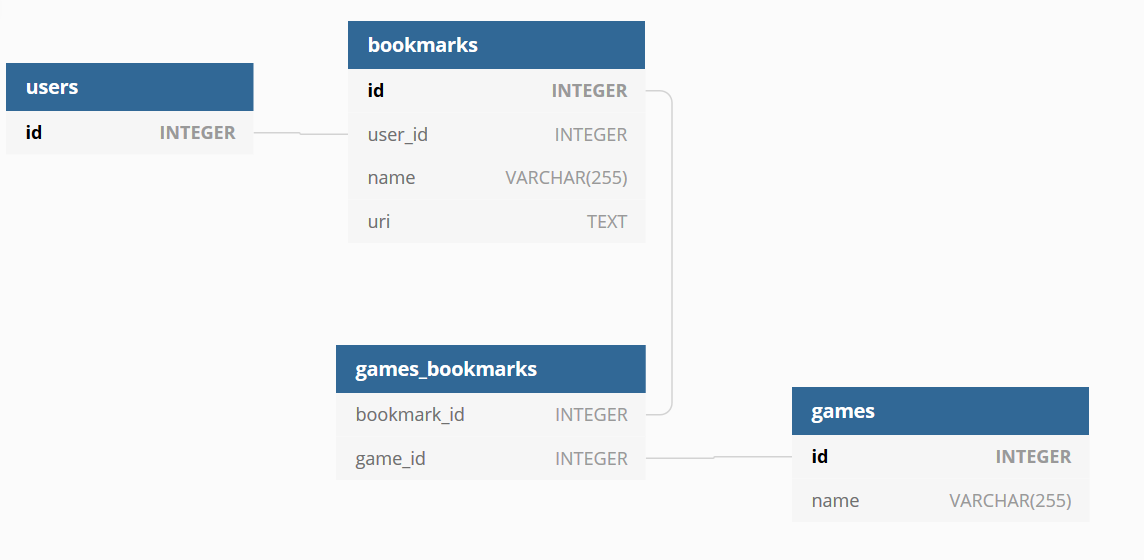
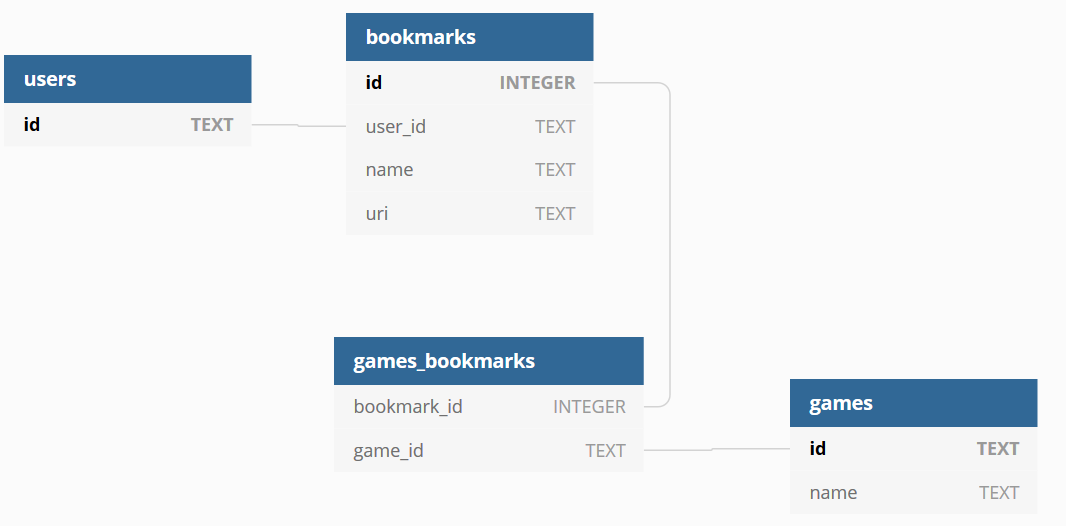
changed so column types in db schema

diff --git a/db/createDb.js b/db/createDb.js
@@ -11,25 +11,25 @@ const db = new Database(config.db.database, { verbose: console.log });
 
 
 db.exec(`CREATE TABLE IF NOT EXISTS "users" (
-        "id" INTEGER PRIMARY KEY
+        "id" TEXT PRIMARY KEY
         );`);
 
 db.exec(`CREATE TABLE IF NOT EXISTS "games" (
-        "id" INTEGER PRIMARY KEY,
-        "name" VARCHAR(255) NOT NULL
+        "id" TEXT PRIMARY KEY,
+        "name" TEXT NOT NULL
         );`);
 
 db.exec(`CREATE TABLE IF NOT EXISTS "bookmarks" (
         "id" INTEGER PRIMARY KEY,
-        "user_id" INTEGER NOT NULL,
-        "name" VARCHAR(255),
+        "user_id" TEXT NOT NULL,
+        "name" TEXT,
         "uri" TEXT NOT NULL,
         FOREIGN KEY(user_id) REFERENCES users(id)
         );`);
 
 db.exec(`CREATE TABLE IF NOT EXISTS "games_bookmarks" (
         "bookmark_id" INTEGER NOT NULL,
-        "game_id" INTEGER NOT NULL,
+        "game_id" TEXT NOT NULL,
         FOREIGN KEY(bookmark_id) REFERENCES bookmarks(id),
         FOREIGN KEY(game_id) REFERENCES games(id)
         );`);

diff --git a/routes/auth.js b/routes/auth.js
@@ -27,9 +27,11 @@ router.get('/steam/return',
   },
   passport.authenticate('steam', { failureRedirect: '/' }),
   function (req, res) {
-    console.log(req.user);
+    console.log(req.user.id);
+    console.log(typeof req.user.id);
     console.log(req.user._json.gameextrainfo);
     console.log(req.user._json.gameid);
+    console.log(typeof req.user._json.gameid);
     res.redirect('/');
   });
 

diff --git a/db/dbTests.js b/db/dbTests.js
@@ -4,12 +4,10 @@ const db = require('./db.js');
 
 console.log('-------------------- TEST --------------------');
 
-console.log(db.getAll());
+console.log(db.getBookmarks({ id:76561198017624394 }));
 
 // db.insertUnit('Litre');
 // db.insertUnit('Kg');
 // db.insertProduct('lait', 1, 1, 12);
-
-console.log(db.getAll());
 
 console.log('------------------ FIN TEST ------------------');
